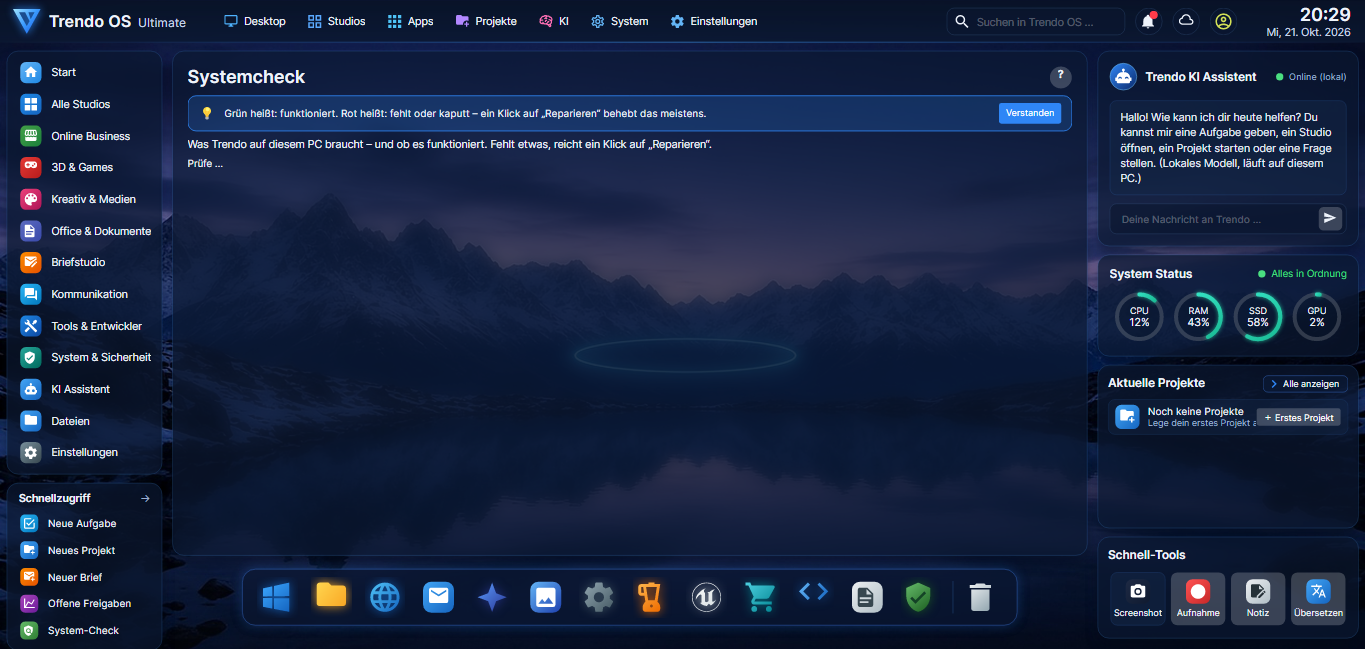
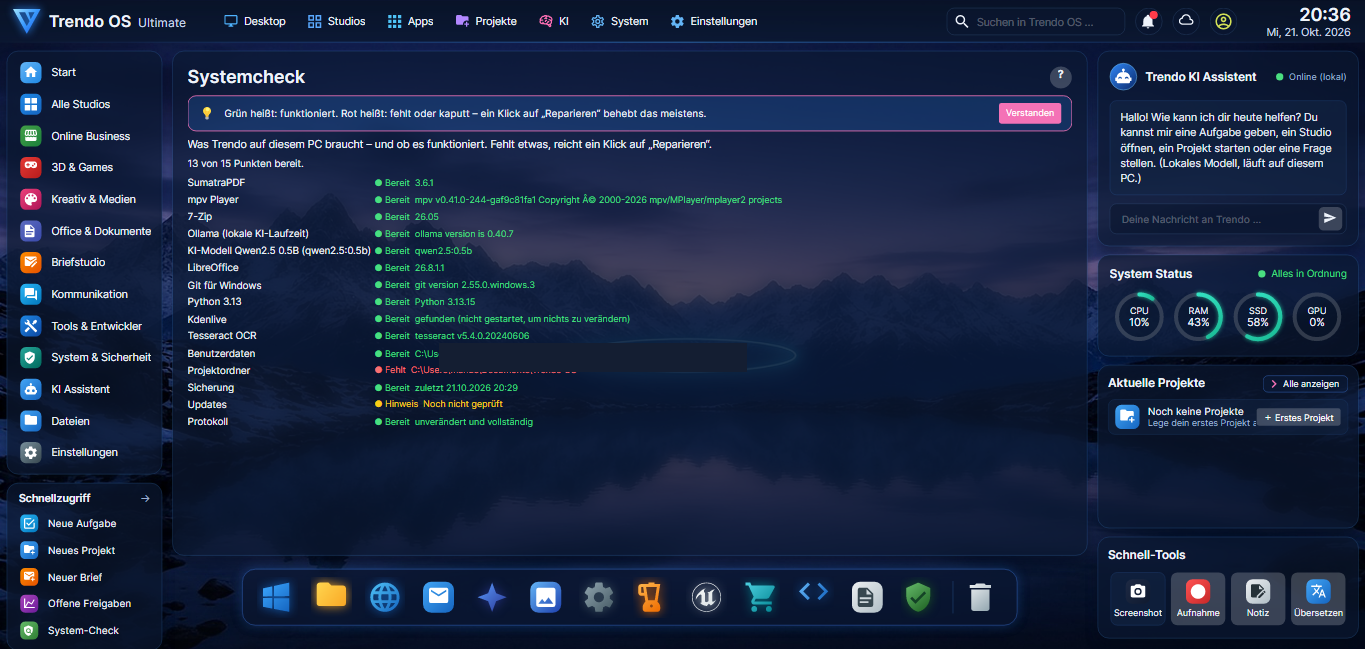
W0/W0b: PC-Nachweise 0.7.3, Status, Log

diff --git a/docs/BUILD_PLAN.md b/docs/BUILD_PLAN.md
@@ -13,12 +13,12 @@ von Manuel genehmigt: Assistent, Basispaket, Studio-Pakete, KI nach Hardware, Up
 
 | Reihenfolge | Modul | Name | Umsetzung | Test |
 |---|---|---|---|---|
-| 1 | W0-01 | Ersteinrichtungs-Assistent (Name, Sprache, Ordner, Design, ~2 min) | NOT_STARTED | NOT_RUN |
-| 2 | W0-02 | Basispaket (Browser-Integration, PDF-Viewer, mpv, 7-Zip, Schriften, DIN-5008-Briefvorlagen) | NOT_STARTED | NOT_RUN |
-| 3 | W0-03 | Studio-Pakete wählbar (Checkboxen), Abhängigkeiten sofort mit Fortschritt, eine Zustimmung | NOT_STARTED | NOT_RUN |
-| 4 | W0-04 | Lokale KI automatisch nach Hardware (RAM/GPU/VRAM) gewählt und geladen | NOT_STARTED | NOT_RUN |
-| 5 | W0-05 | Auto-Updates (Velopack, GitHub Releases) + geplante Sicherung mit Wiederherstellung | NOT_STARTED | NOT_RUN |
-| 6 | W0-06 | Systemcheck-Bericht nach Setup: bereit / fehlt / Ein-Klick-Reparatur | NOT_STARTED | NOT_RUN |
+| 1 | W0-01 | Ersteinrichtungs-Assistent (Name, Sprache, Ordner, Design, ~2 min) | PC_VERIFIED_PARTIAL | NOT_RUN |
+| 2 | W0-02 | Basispaket (Browser-Integration, PDF-Viewer, mpv, 7-Zip, Schriften, DIN-5008-Briefvorlagen) | PC_VERIFIED_PARTIAL | NOT_RUN |
+| 3 | W0-03 | Studio-Pakete wählbar (Checkboxen), Abhängigkeiten sofort mit Fortschritt, eine Zustimmung | PC_VERIFIED_PARTIAL | NOT_RUN |
+| 4 | W0-04 | Lokale KI automatisch nach Hardware (RAM/GPU/VRAM) gewählt und geladen | PC_VERIFIED_PARTIAL | NOT_RUN |
+| 5 | W0-05 | Auto-Updates (Velopack, GitHub Releases) + geplante Sicherung mit Wiederherstellung | PC_VERIFIED_PARTIAL | NOT_RUN |
+| 6 | W0-06 | Systemcheck-Bericht nach Setup: bereit / fehlt / Ein-Klick-Reparatur | PC_VERIFIED_PARTIAL | NOT_RUN |
 
 Abnahmekriterien je Modul:
 - Modul im Studio-Layout erreichbar (max. 2 Navigationsebenen, deutsche Beschriftung)
@@ -33,12 +33,12 @@ von Manuel genehmigt: einfache Sprache, Anpassen, Hintergründe, Animationen, Hi
 
 | Reihenfolge | Modul | Name | Umsetzung | Test |
 |---|---|---|---|---|
-| 1 | W0B-01 | Einfaches, freundliches Deutsch überall + Sprachleitfaden docs/SPRACHE.md | NOT_STARTED | NOT_RUN |
-| 2 | W0B-02 | Desktop anpassen: Kacheln/Widgets verschieben, ein-/ausblenden, Dock sortieren, Akzentfarbe (gespeichert) | NOT_STARTED | NOT_RUN |
-| 3 | W0B-03 | Hintergrund-Galerie (aus /workspace/trendo-wallpapers) + optional Wechsel nach Tageszeit | NOT_STARTED | NOT_RUN |
-| 4 | W0B-04 | Sanfte Animationen, Hover-Glow, ruhiger Startbildschirm + Schalter „Bewegung reduzieren“ | NOT_STARTED | NOT_RUN |
-| 5 | W0B-05 | Hilfe in der App: Hinweise beim ersten Öffnen je Studio + „?“-Knopf | NOT_STARTED | NOT_RUN |
-| 6 | W0B-06 | Designs: Dunkel Premium (Standard), Hell, Hoher Kontrast | NOT_STARTED | NOT_RUN |
+| 1 | W0B-01 | Einfaches, freundliches Deutsch überall + Sprachleitfaden docs/SPRACHE.md | PC_VERIFIED_PARTIAL | NOT_RUN |
+| 2 | W0B-02 | Desktop anpassen: Kacheln/Widgets verschieben, ein-/ausblenden, Dock sortieren, Akzentfarbe (gespeichert) | PC_VERIFIED_PARTIAL | NOT_RUN |
+| 3 | W0B-03 | Hintergrund-Galerie (aus /workspace/trendo-wallpapers) + optional Wechsel nach Tageszeit | PC_VERIFIED_PARTIAL | NOT_RUN |
+| 4 | W0B-04 | Sanfte Animationen, Hover-Glow, ruhiger Startbildschirm + Schalter „Bewegung reduzieren“ | PC_VERIFIED_PARTIAL | NOT_RUN |
+| 5 | W0B-05 | Hilfe in der App: Hinweise beim ersten Öffnen je Studio + „?“-Knopf | PC_VERIFIED_PARTIAL | NOT_RUN |
+| 6 | W0B-06 | Designs: Dunkel Premium (Standard), Hell, Hoher Kontrast | PC_VERIFIED_PARTIAL | NOT_RUN |
 
 Abnahmekriterien je Modul:
 - Modul im Studio-Layout erreichbar (max. 2 Navigationsebenen, deutsche Beschriftung)

diff --git a/docs/BUILD_LOG.md b/docs/BUILD_LOG.md
@@ -3,6 +3,7 @@
 ## 21.10.2026
 - 20:10 Branch `w0/setup` (Welle 0 + 0b), Release v0.7.1-preview1 gebaut (Setup SHA ea396d58…). Nächster Schritt: Test auf dem PC.
 - 20:4x PC-Test: Auto-Update von 0.7.1 auf 0.7.2 über GitHub Releases erfolgreich (reports/w0/update-test.txt). Systemcheck: LibreOffice wird nicht mehr per --version gestartet (das hing), Prüfungen laufen parallel, ein hängender Prozess wird bei Zeitüberschreitung beendet. Der „Geister-Ring“ auf dem Startbildschirm gehört zum Hintergrundbild „bergsee-nacht“ und ist kein Fehler. v0.7.3.
+- 20:36 v0.7.3 auf dem PC installiert (Setup im Projektordner), Systemcheck 13/15 bereit. Welle 0 und 0b abgeschlossen (Teilpunkte offen, siehe reports/w0/README.md).
 - 20:3x Systemcheck blockierte den UI-Thread (GetResult) und hängte die PC-Screenshots, jetzt asynchron. v0.7.2 veröffentlicht. Hinweis: Start-Process -Wait wartet auf Kindprozesse, daher künftig WaitForExit.
 - 20:00 PC: zwei hängende winget-Prozesse von 18:45 (LibreOffice/Tesseract, von Trendo gestartet) sperrten den Programmordner, deshalb schlug das Update fehl (Setup exit 1). LibreOffice 26.x und Tesseract 5.4 waren schon installiert, also beide winget-Prozesse beendet. Fix: Arbeitsverzeichnis gestarteter Programme liegt nicht mehr im Programmordner.
 - 19:5x Welle 0b: Designs Dunkel/Hell/Kontrast, Akzentfarbe, Hintergrund-Galerie (4 Bilder, per Lanczos und Schärfen auf 2560×1440 hochskaliert, kein KI-Upscaler verfügbar), Tageszeit-Wechsel, Animationen und „Bewegung reduzieren“, Hilfe „?“ mit Hinweisen beim ersten Öffnen, Startbildschirm anpassen, einfache Sprache (docs/SPRACHE.md und Test).

diff --git a/reports/w0/README.md b/reports/w0/README.md
@@ -1,0 +1,18 @@
+# Welle 0 – PC-Nachweise (Trendo OS 0.7.3-preview1, unsigniert)
+Setup.exe SHA-256: 0063f423693a7c7c42a254f71009adcc0273ba12c813cc6e5548e3eaf5c265ed (liegt im Projektordner auf dem PC, installiert, Exit 0)
+
+Geprüft auf dem PC:
+- Auto-Update 0.7.1 → 0.7.2 über GitHub Releases (update-test.txt)
+- SumatraPDF per Benutzer installiert (sumatra-install.txt)
+- KI-Empfehlung nach Hardware (31 GB RAM, RTX 5070 11 GB → qwen2.5:3b) (w0-04-ki.png)
+- Automatische Sicherung erstellt (w0-05-sicherung.png)
+- Systemcheck 0.7.3: 13 von 15 bereit, keine hängenden Prozesse (w0-06-systemcheck-nachher.png; Pfade geschwärzt)
+- Designs dunkel / hell / kontrast (w0b-start-*.png)
+
+Nicht oder nur teilweise geprüft (ehrlich):
+- Klickpfad des Assistenten: nur im Headless-UI-Test; auf dem PC wurde settings.json direkt geschrieben
+- Projektordner fehlt auf dem PC, weil der Assistent dort nicht durchgeklickt wurde
+- Update-Prüfung 0.7.3 im Screenshot „noch nicht geprüft“
+- Schriften und Browser-Einbindung nur teilweise
+- Tastatur-Test im ISO offen
+- Code-Signierung: keine (QA-017/QA-019 nicht bestanden)
